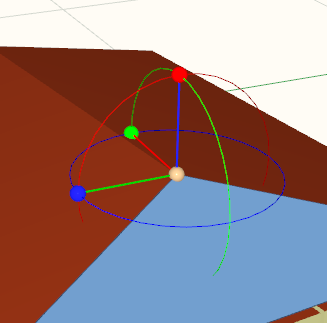
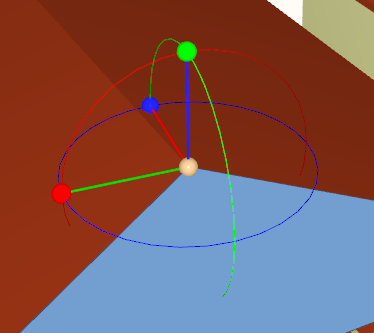
Rotation Achses fix.

diff --git a/SIM-VICUS/src/core3D/Vic3DScene.cpp b/SIM-VICUS/src/core3D/Vic3DScene.cpp
@@ -435,27 +435,30 @@ bool Vic3DScene::inputEvent(const KeyboardMouseHandler & keyboardHandler, const 
 						// which axis?
 						switch (pickObject.m_candidates.front().m_uniqueObjectID) {
 							case 0 :
-								m_coordinateSystemObject.m_geometryTransformMode = Vic3D::CoordinateSystemObject::TM_RotateY;
-								m_rotationAxis = QtExt::QVector2IBKVector( m_coordinateSystemObject.localYAxis() );
-								m_rotationVectorX = QtExt::QVector2IBKVector( m_coordinateSystemObject.localZAxis() );
-								m_rotationVectorY = QtExt::QVector2IBKVector( m_coordinateSystemObject.localXAxis() );
-							break;
-
-							case 1 :
+								// rotate around z
 								m_coordinateSystemObject.m_geometryTransformMode = Vic3D::CoordinateSystemObject::TM_RotateZ;
 								m_rotationAxis = QtExt::QVector2IBKVector( m_coordinateSystemObject.localZAxis() );
 								m_rotationVectorX = QtExt::QVector2IBKVector( m_coordinateSystemObject.localXAxis() );
 								m_rotationVectorY = QtExt::QVector2IBKVector( m_coordinateSystemObject.localYAxis() );
 							break;
 
-							case 2 :
+							case 1 :
 								m_coordinateSystemObject.m_geometryTransformMode = Vic3D::CoordinateSystemObject::TM_RotateX;
 								m_rotationAxis = QtExt::QVector2IBKVector( m_coordinateSystemObject.localXAxis() );
 								m_rotationVectorX = QtExt::QVector2IBKVector( m_coordinateSystemObject.localYAxis() );
 								m_rotationVectorY = QtExt::QVector2IBKVector( m_coordinateSystemObject.localZAxis() );
 							break;
+
+							case 2 :
+								m_coordinateSystemObject.m_geometryTransformMode = Vic3D::CoordinateSystemObject::TM_RotateY;
+								m_rotationAxis = QtExt::QVector2IBKVector( m_coordinateSystemObject.localYAxis() );
+								m_rotationVectorX = QtExt::QVector2IBKVector( m_coordinateSystemObject.localZAxis() );
+								m_rotationVectorY = QtExt::QVector2IBKVector( m_coordinateSystemObject.localXAxis() );
+							break;
 						}
 
+						// store original translation matrix
+						m_originalRotation = m_coordinateSystemObject.transform().rotation();
 						qDebug() << "Entering interactive rotation mode";
 					}
 				}
@@ -593,25 +596,24 @@ bool Vic3DScene::inputEvent(const KeyboardMouseHandler & keyboardHandler, const 
 						double rotAngle = 0;
 						if (cosBeta == 1.0)
 							rotAngle = 0;
+						else if (cosBeta == -1.0)
+							rotAngle = 180;
 						else
 							rotAngle = std::acos(cosBeta)*180/3.141569;
+						// adjustment for quadrant 3 and 4
 						if (sinGamma < 0)
 							rotAngle = 360-rotAngle;
-
-						// subtract 90, because our snap point is on the y-axis
-						rotAngle -= 90;
 
 						// the rotation angle
 						qDebug() << QtExt::IBKVector2String(newPoint) << QtExt::IBKVector2String(projectedVector) << cosBeta << sinGamma << rotAngle;
 
-						QQuaternion q = QQuaternion::fromAxisAndAngle( QtExt::IBKVector2QVector(m_rotationAxis), rotAngle + m_initialRotationAngle);
-						QQuaternion qOriginal = QQuaternion::fromAxes( QtExt::IBKVector2QVector(m_rotationVectorX), QtExt::IBKVector2QVector(m_rotationVectorY), QtExt::IBKVector2QVector(m_rotationAxis));
+						QQuaternion q = QQuaternion::fromAxisAndAngle( QtExt::IBKVector2QVector(m_rotationAxis), rotAngle);
 
-						m_coordinateSystemObject.setRotation(q*qOriginal);
-
+						q = q*m_originalRotation;
+						m_coordinateSystemObject.setRotation(q*m_originalRotation);
 
 						// now set this in the wireframe object as translation
-//						m_selectedGeometryObject.m_transform.setTranslation(translationVector);
+						m_selectedGeometryObject.m_transform.setRotation(q);
 					} break;// interactive translation active
 				} // switch
 			} // mouse dragged
@@ -640,7 +642,7 @@ bool Vic3DScene::inputEvent(const KeyboardMouseHandler & keyboardHandler, const 
 		}
 		if (m_navigationMode == NM_InteractiveRotation) {
 			qDebug() << "Leaving interactive rotation mode";
-//			SVViewStateHandler::instance().m_propEditGeometryWidget->translate();
+			SVViewStateHandler::instance().m_propEditGeometryWidget->rotate();
 			needRepaint = true;
 		}
 		// clear orbit controller flag

diff --git a/SIM-VICUS/src/core3D/Vic3DCoordinateSystemObject.cpp b/SIM-VICUS/src/core3D/Vic3DCoordinateSystemObject.cpp
@@ -232,8 +232,8 @@ void CoordinateSystemObject::create(ShaderProgram * shaderProgram) {
 	// x-axis: draw 4 green bullets in yz plane
 
 	m_objectStartIndexes[ELEMENT_ROTATION_INDICATOR_INDEX_X] = currentElementIndex;
-	// x-axis sphere is for rotation around y
-	addSphere(IBKMK::Vector3D(AXIS_LENGTH,0,0), QColor(Qt::green), ROTATION_MARKER_SPHERE_FACTOR*sizeFactor, currentVertexIndex, currentElementIndex,
+	// x-axis sphere is for rotation around z
+	addSphere(IBKMK::Vector3D(AXIS_LENGTH,0,0), QColor(32,32,255), ROTATION_MARKER_SPHERE_FACTOR*sizeFactor, currentVertexIndex, currentElementIndex,
 			  m_vertexBufferData, m_colorBufferData, m_indexBufferData);
 //	for (int i=0; i<8; ++i) {
 //		QVector3D pos(0,AXIS_LENGTH,0);
@@ -244,8 +244,8 @@ void CoordinateSystemObject::create(ShaderProgram * shaderProgram) {
 //	}
 
 	m_objectStartIndexes[ELEMENT_ROTATION_INDICATOR_INDEX_Y] = currentElementIndex;
-	// y-axis sphere is for rotation around z
-	addSphere(IBKMK::Vector3D(0, AXIS_LENGTH,0), QColor(32,32,255), ROTATION_MARKER_SPHERE_FACTOR*sizeFactor, currentVertexIndex, currentElementIndex,
+	// y-axis sphere is for rotation around x
+	addSphere(IBKMK::Vector3D(0, AXIS_LENGTH,0), QColor(Qt::red), ROTATION_MARKER_SPHERE_FACTOR*sizeFactor, currentVertexIndex, currentElementIndex,
 			  m_vertexBufferData, m_colorBufferData, m_indexBufferData);
 //	for (int i=0; i<8; ++i) {
 //		QVector3D pos(AXIS_LENGTH,0,0);
@@ -254,8 +254,8 @@ void CoordinateSystemObject::create(ShaderProgram * shaderProgram) {
 //	}
 
 	m_objectStartIndexes[ELEMENT_ROTATION_INDICATOR_INDEX_Z] = currentElementIndex;
-	// z-axis sphere is for rotation around x
-	addSphere(IBKMK::Vector3D(0,0,AXIS_LENGTH), QColor(Qt::red), ROTATION_MARKER_SPHERE_FACTOR*sizeFactor, currentVertexIndex, currentElementIndex,
+	// z-axis sphere is for rotation around y
+	addSphere(IBKMK::Vector3D(0,0,AXIS_LENGTH), QColor(Qt::green), ROTATION_MARKER_SPHERE_FACTOR*sizeFactor, currentVertexIndex, currentElementIndex,
 			  m_vertexBufferData, m_colorBufferData, m_indexBufferData);
 //	for (int i=0; i<8; ++i) {
 //		QVector3D pos(AXIS_LENGTH,0,0);
@@ -517,7 +517,7 @@ bool CoordinateSystemObject::pick(const IBKMK::Vector3D & nearPoint, const IBKMK
 				r.m_snapPointType = PickObject::RT_AxisEndMarker;
 				r.m_depth = lineFactor;
 				r.m_pickPoint = nearPoint + lineFactor*direction;
-				r.m_uniqueObjectID = 0; // indicates x axis
+				r.m_uniqueObjectID = 0; // indicates x axis, i.e. rotation around z
 				return true;
 			}
 			// y-axis

diff --git a/SIM-VICUS/src/core3D/Vic3DScene.h b/SIM-VICUS/src/core3D/Vic3DScene.h
@@ -246,7 +246,7 @@ private:
 
 	/*! Reference vector (coordinate system will be rotated around this vector). */
 	IBKMK::Vector3D			m_rotationAxis;
-	double					m_initialRotationAngle;
+	QQuaternion				m_originalRotation;
 	/*! Reference vector (local X of rotation system). "z-axis" is always rotation axis */
 	IBKMK::Vector3D			m_rotationVectorX;
 	IBKMK::Vector3D			m_rotationVectorY;
